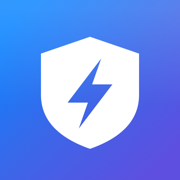
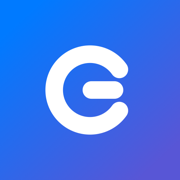
site: publish landing + appcast

diff --git a/privacy/index.html b/privacy/index.html
@@ -21,7 +21,7 @@
 <nav>
     <div class="container">
         <a href="../" class="nav-brand">
-            <svg viewBox="0 0 28 28" fill="none"><rect width="28" height="28" rx="7" fill="url(#ng)"/><path d="M8 14.5L12 18.5L20 10.5" stroke="#fff" stroke-width="2.5" stroke-linecap="round" stroke-linejoin="round"/><defs><linearGradient id="ng" x1="0" y1="0" x2="28" y2="28"><stop stop-color="#007AFF"/><stop offset="1" stop-color="#5856D6"/></linearGradient></defs></svg>
+            <svg viewBox="0 0 28 28" fill="none"><rect width="28" height="28" rx="7" fill="url(#ng)"/><g stroke="#fff" stroke-width="3.4" stroke-linecap="round"><path d="M20.2 9.6 A7.6 7.6 0 1 0 20.2 18.4"/><path d="M14 14 H18.7"/></g><defs><linearGradient id="ng" x1="0" y1="0" x2="28" y2="28"><stop stop-color="#007AFF"/><stop offset="1" stop-color="#5856D6"/></linearGradient></defs></svg>
             PowerGuard
         </a>
         <div class="lang-switch" role="group" aria-label="Language">

diff --git a/terms/index.html b/terms/index.html
@@ -21,7 +21,7 @@
 <nav>
     <div class="container">
         <a href="../" class="nav-brand">
-            <svg viewBox="0 0 28 28" fill="none"><rect width="28" height="28" rx="7" fill="url(#ng)"/><path d="M8 14.5L12 18.5L20 10.5" stroke="#fff" stroke-width="2.5" stroke-linecap="round" stroke-linejoin="round"/><defs><linearGradient id="ng" x1="0" y1="0" x2="28" y2="28"><stop stop-color="#007AFF"/><stop offset="1" stop-color="#5856D6"/></linearGradient></defs></svg>
+            <svg viewBox="0 0 28 28" fill="none"><rect width="28" height="28" rx="7" fill="url(#ng)"/><g stroke="#fff" stroke-width="3.4" stroke-linecap="round"><path d="M20.2 9.6 A7.6 7.6 0 1 0 20.2 18.4"/><path d="M14 14 H18.7"/></g><defs><linearGradient id="ng" x1="0" y1="0" x2="28" y2="28"><stop stop-color="#007AFF"/><stop offset="1" stop-color="#5856D6"/></linearGradient></defs></svg>
             PowerGuard
         </a>
         <div class="lang-switch" role="group" aria-label="Language">

diff --git a/index.html b/index.html
@@ -317,7 +317,7 @@
 <nav>
     <div class="container">
         <a href="." class="nav-brand">
-            <svg viewBox="0 0 28 28" fill="none"><rect width="28" height="28" rx="7" fill="url(#ng)"/><path d="M8 14.5L12 18.5L20 10.5" stroke="#fff" stroke-width="2.5" stroke-linecap="round" stroke-linejoin="round"/><defs><linearGradient id="ng" x1="0" y1="0" x2="28" y2="28"><stop stop-color="#007AFF"/><stop offset="1" stop-color="#5856D6"/></linearGradient></defs></svg>
+            <svg viewBox="0 0 28 28" fill="none"><rect width="28" height="28" rx="7" fill="url(#ng)"/><g stroke="#fff" stroke-width="3.4" stroke-linecap="round"><path d="M20.2 9.6 A7.6 7.6 0 1 0 20.2 18.4"/><path d="M14 14 H18.7"/></g><defs><linearGradient id="ng" x1="0" y1="0" x2="28" y2="28"><stop stop-color="#007AFF"/><stop offset="1" stop-color="#5856D6"/></linearGradient></defs></svg>
             PowerGuard
         </a>
         <div class="nav-links">
